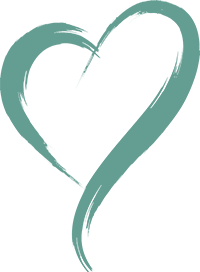
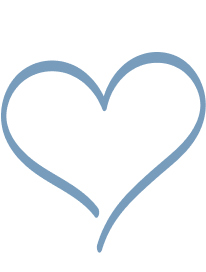
HanhLT: update

Changed region(s): [[0.0, 0.0, 1.0, 1.0]]

diff --git a/src/components/story/index.js b/src/components/story/index.js
@@ -1,9 +1,9 @@
 import React from 'react'
 import {Link} from 'react-router-dom'
-import strory1 from '../../images/story/600x421.jpg'
-import strory2 from '../../images/story/600x421.jpg'
-import strory3 from '../../images/story/600x421.jpg'
-import strory4 from '../../images/story/600x421.jpg'
+import strory1 from '../../images/story/600x421_1.jpg'
+import strory2 from '../../images/story/600x421_2.jpg'
+import strory3 from '../../images/story/600x421_3.jpg'
+import strory4 from '../../images/story/600x421_4.jpg'
 import './style.css'
 
 
@@ -34,8 +34,8 @@ const Story = () =>{
                                             </div>
                                         </div>
                                         <h2>Lần Gặp Đầu Tiên</h2>
-                                        <span className="date">July 20, 2017</span>
-                                        <p>There are many variations of passages of Lorem Ipsum available, but the majority have suffered alteration in some,</p>
+                                        <span className="date">20/03/2021</span>
+                                        <p>Lần đầu tiên cô dâu và chú rể gặp nhau là vào năm 2021. Cô dâu, vốn là bạn của em chú rể, đã ghé thăm nhà chú rể, và từ đó, những tình cảm ban đầu đã nảy nở, mở ra chặng đường tìm hiểu và gắn kết giữa hai người.</p>
                                     </div>
                                 </div>
                                 <div className="item">
@@ -50,9 +50,9 @@ const Story = () =>{
                                                 </div>
                                             </div>
                                         </div>
-                                        <h2>Buổi Hẹn Hò Đầu Tiên</h2>
-                                        <span className="date">Dec 25, 2017</span>
-                                        <p>There are many variations of passages of Lorem Ipsum available, but the majority have suffered alteration in some,</p>
+                                        <h2>Khoảnh Khắc Ngỏ Lời Yêu</h2>
+                                        <span className="date">16/07/2021</span>
+                                        <p>Đến một ngày tháng 7 năm 2021, tại khuôn viên phía sau bệnh viện huyện Đông Anh, sau một thời gian tìm hiểu, chú rể đã quyết định ngỏ lời yêu. Theo cô dâu kể lại, chú rể phải nói mãi mới được câu 'Làm người yêu anh nhé', trong khi tim đập chân tay run rẩy. Từ khoảnh khắc đó, câu chuyện tình yêu đẹp của họ chính thức bắt đầu.</p>
                                     </div>
                                 </div>
                                 <div className="item">
@@ -68,8 +68,8 @@ const Story = () =>{
                                             </div>
                                         </div>
                                         <h2>Phút Giây Cầu Hôn</h2>
-                                        <span className="date">Jan 10, 2018</span>
-                                        <p>There are many variations of passages of Lorem Ipsum available, but the majority have suffered alteration in some,</p>
+                                        <span className="date">11/09/2024</span>
+                                        <p>Vào một ngày trời thu tháng 9 yên bình tại Hà Nội, hai bên gia đình đã có một buổi gặp mặt thân mật. Chính trong không khí giản dị đó, như một lời cầu hôn tự nhiên từ chú rể và lời đồng ý chân thành từ cô dâu, họ đã cùng nhau quyết định xây dựng tổ ấm chung. Đó là một khoảnh khắc đầy ý nghĩa, đánh dấu bước ngoặt lớn trong hành trình gắn bó và sẻ chia của hai người, từ đây cùng nhau vun vén cho mái ấm của riêng mình.</p>
                                     </div>
                                 </div>
                                 <div className="item">
@@ -86,7 +86,7 @@ const Story = () =>{
                                         </div>
                                         <h2>Ngày Lễ Thành Hôn</h2>
                                         <span className="date">10/11/2024</span>
-                                        <p>Chúng mình đã đợi ngày này từ rất lâu rồi, hi vọng sẽ để lại gi gì đó bla bla</p>
+                                        <p>Và rồi, họ luôn mong chờ giây phút cùng nhau bước vào lễ đường, như một cột mốc quan trọng đánh dấu sự trưởng thành và chín chắn trong tình yêu. Đó là lời hứa đầy trách nhiệm mà họ dành cho nhau, cùng đồng hành và sẻ chia trong chặng đường phía trước. Từ đây, cả hai sẽ cùng nhau xây dựng và vun đắp tổ ấm, nơi chứa đựng những giá trị yêu thương và hạnh phúc trọn vẹn.</p>
                                     </div>
                                 </div>
                             </div>

diff --git a/src/components/location/index.js b/src/components/location/index.js
@@ -25,10 +25,18 @@ const Location = () => {
                             <div className="col-lg-7">
                                 <div className="ceromony-content">
                                     <h3>Lễ Thành hôn</h3>
-                                    <span>Sunday, 25 July 18, 9.00 AM-5.00 PM</span>
-                                    <span>256 Apay Road,Califonia Bong, London</span>
-                                    <p>It is a long established fact that a reader will be distracted by the readable content of a page when looking at its layout. The point of using Lorem Ipsum is that it has a more-or-less normal </p>
-                                    <LocationMap buttonClass={'location-btn'} />
+                                    <span>Chủ nhật, ngày 10 tháng 11 năm 2024</span>
+                                    <span>Nhà trai, Số 2, Ngõ 191 Phương Trạch, Vĩnh Ngọc, Đông Anh, Hà Nội</span>
+                                    <p>Chú rể: 039 812 1590.         Cô dâu: 098 732 0472</p>
+                                    <div className="location-btn">
+                                        <a 
+                                            href="https://maps.app.goo.gl/Fz1nBaL2R7hk88g16" 
+                                            target="_blank" 
+                                            rel="noopener noreferrer"
+                                        >
+                                            Xem vị trí
+                                        </a>
+                                    </div>
                                 </div>
                             </div>
                         </div>
@@ -39,10 +47,18 @@ const Location = () => {
                         <div className="col-lg-7">
                             <div className="ceromony-content ceromony-content2">
                                 <h3>Tiệc cưới nhà trai</h3>
-                                <span>Sunday, 25 July 18, 9.00 AM-5.00 PM</span>
-                                <span>256 Apay Road,Califonia Bong, London</span>
-                                <p>It is a long established fact that a reader will be distracted by the readable content of a page when looking at its layout. The point of using Lorem Ipsum is that it has a more-or-less normal </p>
-                                <LocationMap buttonClass={'location-btn'} />
+                                <span>Thứ 7 - Chủ nhật, ngày 9, 10 tháng 11 năm 2024</span>
+                                <span>Số 2, Ngõ 191 Phương Trạch, Vĩnh Ngọc, Đông Anh, Hà Nội</span>
+                                <p>Chú rể: 039 812 1590</p>
+                                <div className="location-btn">
+                                        <a 
+                                            href="https://maps.app.goo.gl/Fz1nBaL2R7hk88g16" 
+                                            target="_blank" 
+                                            rel="noopener noreferrer"
+                                        >
+                                            Xem vị trí
+                                        </a>
+                                    </div>
                             </div>
                         </div>
                         <div className="col-lg-5">
@@ -62,10 +78,18 @@ const Location = () => {
                         <div className="col-lg-7">
                             <div className="ceromony-content">
                                 <h3>Tiệc cưới nhà gái</h3>
-                                <span>Sunday, 25 July 18, 9.00 AM-5.00 PM</span>
-                                <span>256 Apay Road,Califonia Bong, London</span>
-                                <p>It is a long established fact that a reader will be distracted by the readable content of a page when looking at its layout. The point of using Lorem Ipsum is that it has a more-or-less normal </p>
-                                <LocationMap buttonClass={'location-btn'} />
+                                <span>Thứ 7 - Chủ nhật, ngày 9, 10 tháng 11 năm 2024</span>
+                                <span>Ngõ 43, Đồng Nhân, Hải Bối, Đông Anh, Hà Nội</span>
+                                <p>Cô dâu: 098 732 0472</p>
+                                <div className="location-btn">
+                                        <a 
+                                            href="https://goo.gl/maps/ajdBca4tx9YetXTH6" 
+                                            target="_blank" 
+                                            rel="noopener noreferrer"
+                                        >
+                                            Xem vị trí
+                                        </a>
+                                    </div>
                             </div>
                         </div>
                     </div>

diff --git a/src/components/LocationModal/LocationModal.js b/src/components/LocationModal/LocationModal.js
@@ -5,7 +5,7 @@ import React, {Fragment} from 'react';
 
 import { Dialog, Grid, } from '@mui/material'
 
-const LocationMap = ({ maxWidth, button, buttonClass }) => {
+const LocationMap = ({ maxWidth, button, buttonClass , link_map}) => {
     const [open, setOpen] = React.useState(false);
 
     function handleClickOpen() {
@@ -21,9 +21,9 @@ const LocationMap = ({ maxWidth, button, buttonClass }) => {
         <Fragment>
             <button
                 className={`btn ${buttonClass}`}
-                onClick={handleClickOpen}>
-                {button}
-                See Location
+                onClick={handleClickOpen}
+            >
+                {button} See Location
             </button>
             <Dialog
                 open={open}
@@ -31,12 +31,19 @@ const LocationMap = ({ maxWidth, button, buttonClass }) => {
                 className="modalWrapper quickview-dialog"
                 maxWidth={maxWidth}
             >
-              <button onClick={handleClose} className='event-close-btn'>
-                <i  className='fa fa-close'></i>
-              </button>
+                <button onClick={handleClose} className='event-close-btn'>
+                    <i className='fa fa-close'></i>
+                </button>
                 <Grid className="modalBody modal-body">
                     <Grid className="modalBody modal-body">
-                        <iframe title="map" src="https://www.google.com/maps/embed?pb=!1m18!1m12!1m3!1d193595.9147703055!2d-74.11976314309273!3d40.69740344223377!2m3!1f0!2f0!3f0!3m2!1i1024!2i768!4f13.1!3m3!1m2!1s0x89c24fa5d33f083b%3A0xc80b8f06e177fe62!2sNew+York%2C+NY%2C+USA!5e0!3m2!1sen!2sbd!4v1547528325671"></iframe>
+                        <iframe
+                            title="map"
+                            src={link_map}
+                            width="600" // Set the width
+                            height="450" // Set the height
+                            style={{ border: 0 }} // Optional: Remove border
+                            allowFullScreen // Optional: Allow full-screen
+                        ></iframe>
                     </Grid>
                 </Grid>
             </Dialog>

diff --git a/src/components/couple/index.js b/src/components/couple/index.js
@@ -30,8 +30,8 @@ const Couple = () => {
                                             <ul className="d-flex">
                                                 <li><a href="https://www.facebook.com/profile.php?id=100004388221170" target="_blank" rel="noopener noreferrer">
                                                         <span className="fa fa-facebook"></span></a></li>
-                                                <li><a href="https://plus.google.com" target="_blank" rel="noopener noreferrer">
-                                                        <span className="fa fa-instagram"></span></a></li>
+                                                {/* <li><a href="https://plus.google.com" target="_blank" rel="noopener noreferrer">
+                                                        <span className="fa fa-zalo"></span></a></li> */}
                                             </ul>
                                         </div>
                                     </div>
@@ -58,8 +58,8 @@ const Couple = () => {
                                             <ul className="d-flex">
                                             <li><a href="https://www.facebook.com/profile.php?id=100009455429412" target="_blank" rel="noopener noreferrer">
                                                     <span className="fa fa-facebook"></span></a></li>
-                                            <li><a href="https://plus.google.com" target="_blank" rel="noopener noreferrer">
-                                                    <span className="fa fa-instagram"></span></a></li>
+                                            {/* <li><a href="https://plus.google.com" target="_blank" rel="noopener noreferrer">
+                                                    <span className="fa fa-instagram"></span></a></li> */}
                                             </ul>
                                         </div>
                                     </div>

diff --git a/src/components/hero/index.js b/src/components/hero/index.js
@@ -29,7 +29,7 @@ class SimpleSlider extends Component {
                           <h2>Save Our Date</h2>
                       </div>
                       <div className="slide-text">
-                          <p>10 November 2024</p>
+                          <p>Ngày 10 Tháng 11 Năm 2024</p>
                       </div>
                   </div>
               </div>
@@ -45,7 +45,7 @@ class SimpleSlider extends Component {
                               <h2>Save Our Date</h2>
                           </div>
                           <div className="slide-text">
-                              <p>10 November 2024</p>
+                              <p>Ngày 10 Tháng 11 Năm 2024</p>
                           </div>
                       </div>
                     </div>

diff --git a/src/components/scrollbar/style.css b/src/components/scrollbar/style.css
@@ -8,15 +8,15 @@ ul.smothscroll {
 ul.smothscroll a {
     width: 50px;
     height: 50px;
-    background:rgba(30,130,103,.6);
+    background:#8db7d9;
     color: #fff;
     display: block;
     border-radius: 50%;
     text-align: center;
     line-height: 47px;
-    border:1px solid rgba(30,130,103);
+    border:1px solid #789DBC;
     transition: all .3s;
 }
 ul.smothscroll a:hover{
-    background:rgba(30,130,103);
+    background:#789DBC;
 }

diff --git a/src/components/section-title/style.css b/src/components/section-title/style.css
@@ -13,11 +13,13 @@
     background: url(../../images/section-title.png);
     width: 20%;
     height: 89%;
-    bottom: -16px;
+    bottom: -48px;
     left: 41%;
+    background-repeat: no-repeat;
 }
 .section-title{
     text-align: center;
+    background-repeat: no-repeat;
 }
 
 @media(max-width:767px){

diff --git a/src/components/story/style.css b/src/components/story/style.css
@@ -52,7 +52,7 @@ Story-Area
     left: 50%;
     height: 97%;
     width: 4px;
-    background: #E8EFED;
+    background: #c8e4fa;
 }
 .story-area.story-style-2 .story .content-wrapper::before {
     background:#789DBC;
